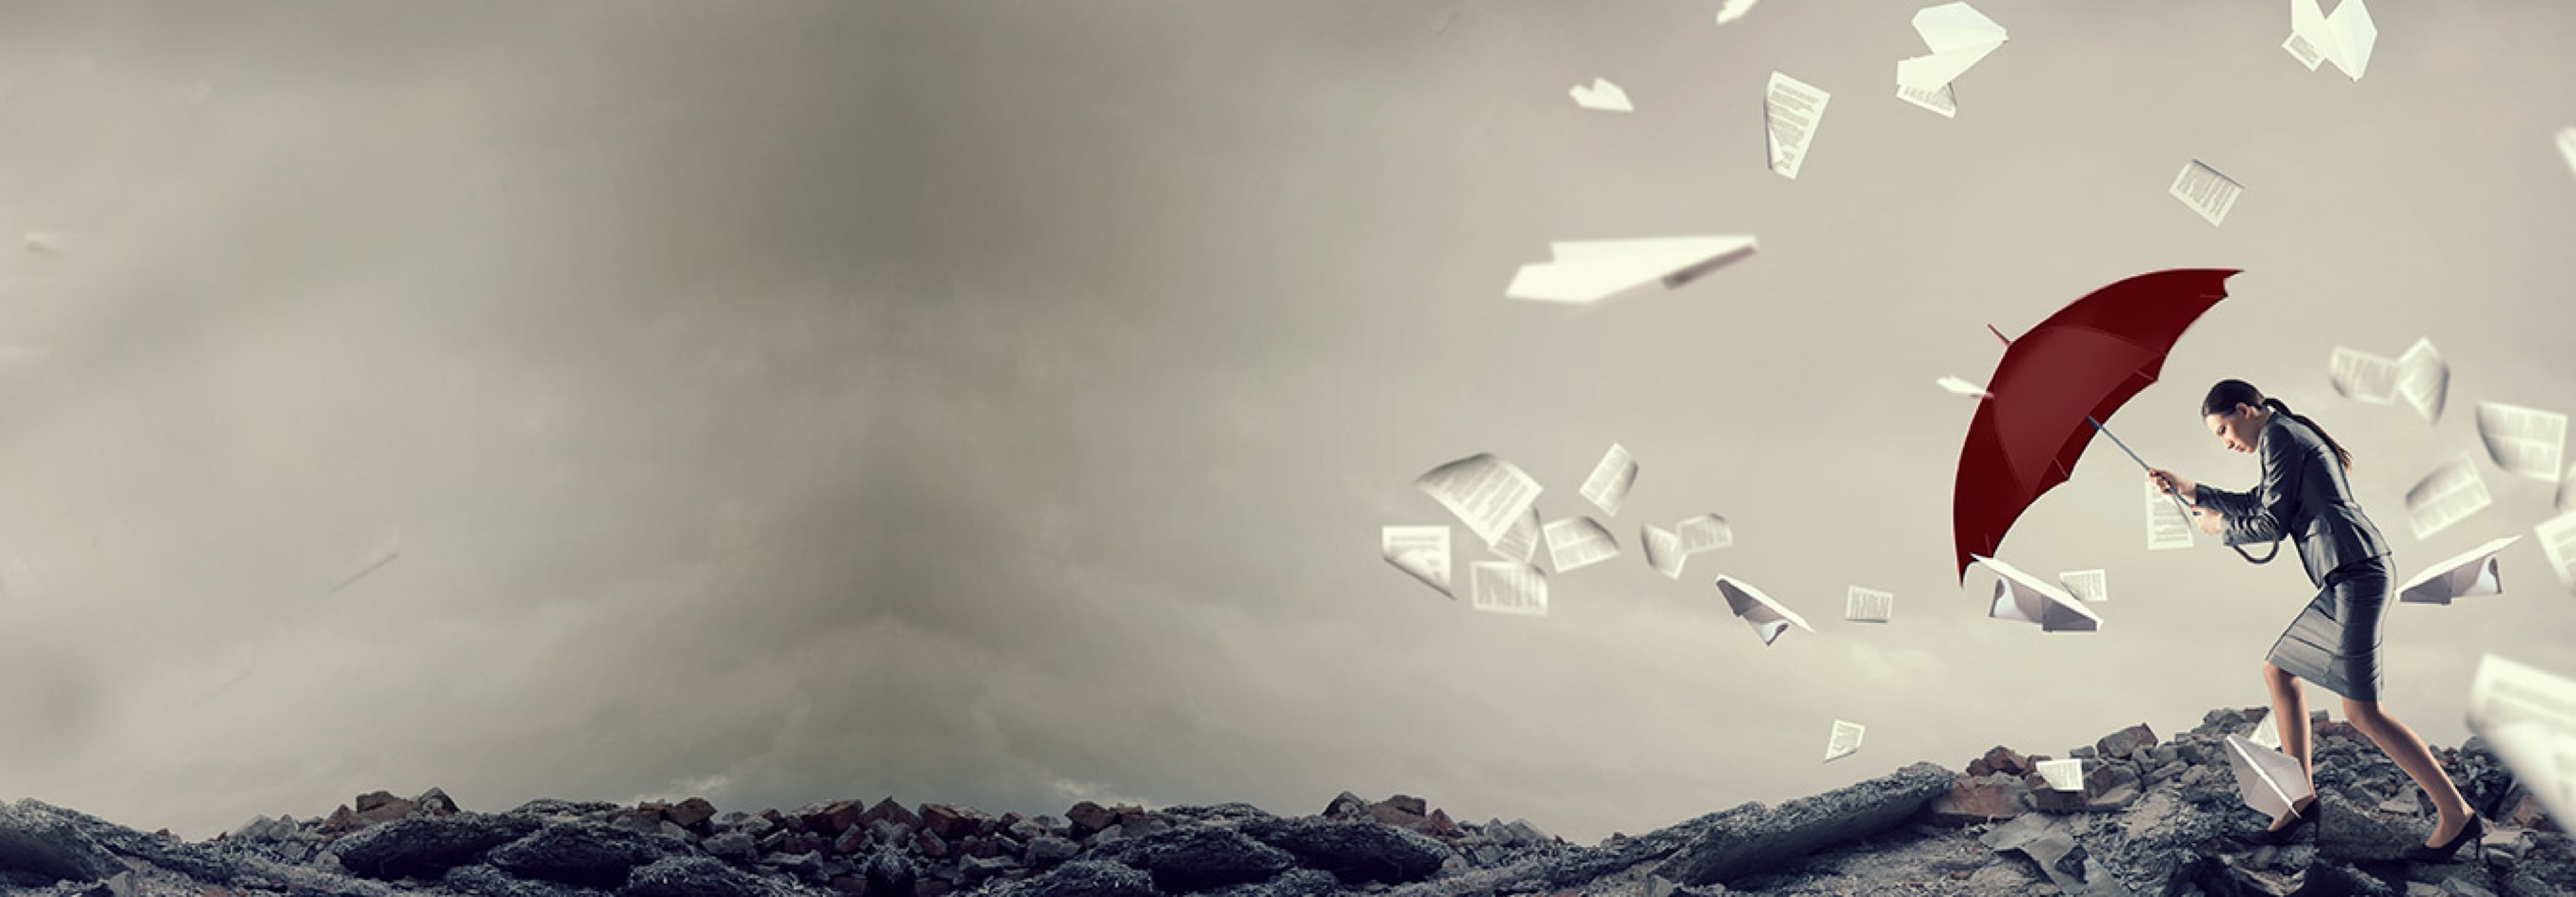
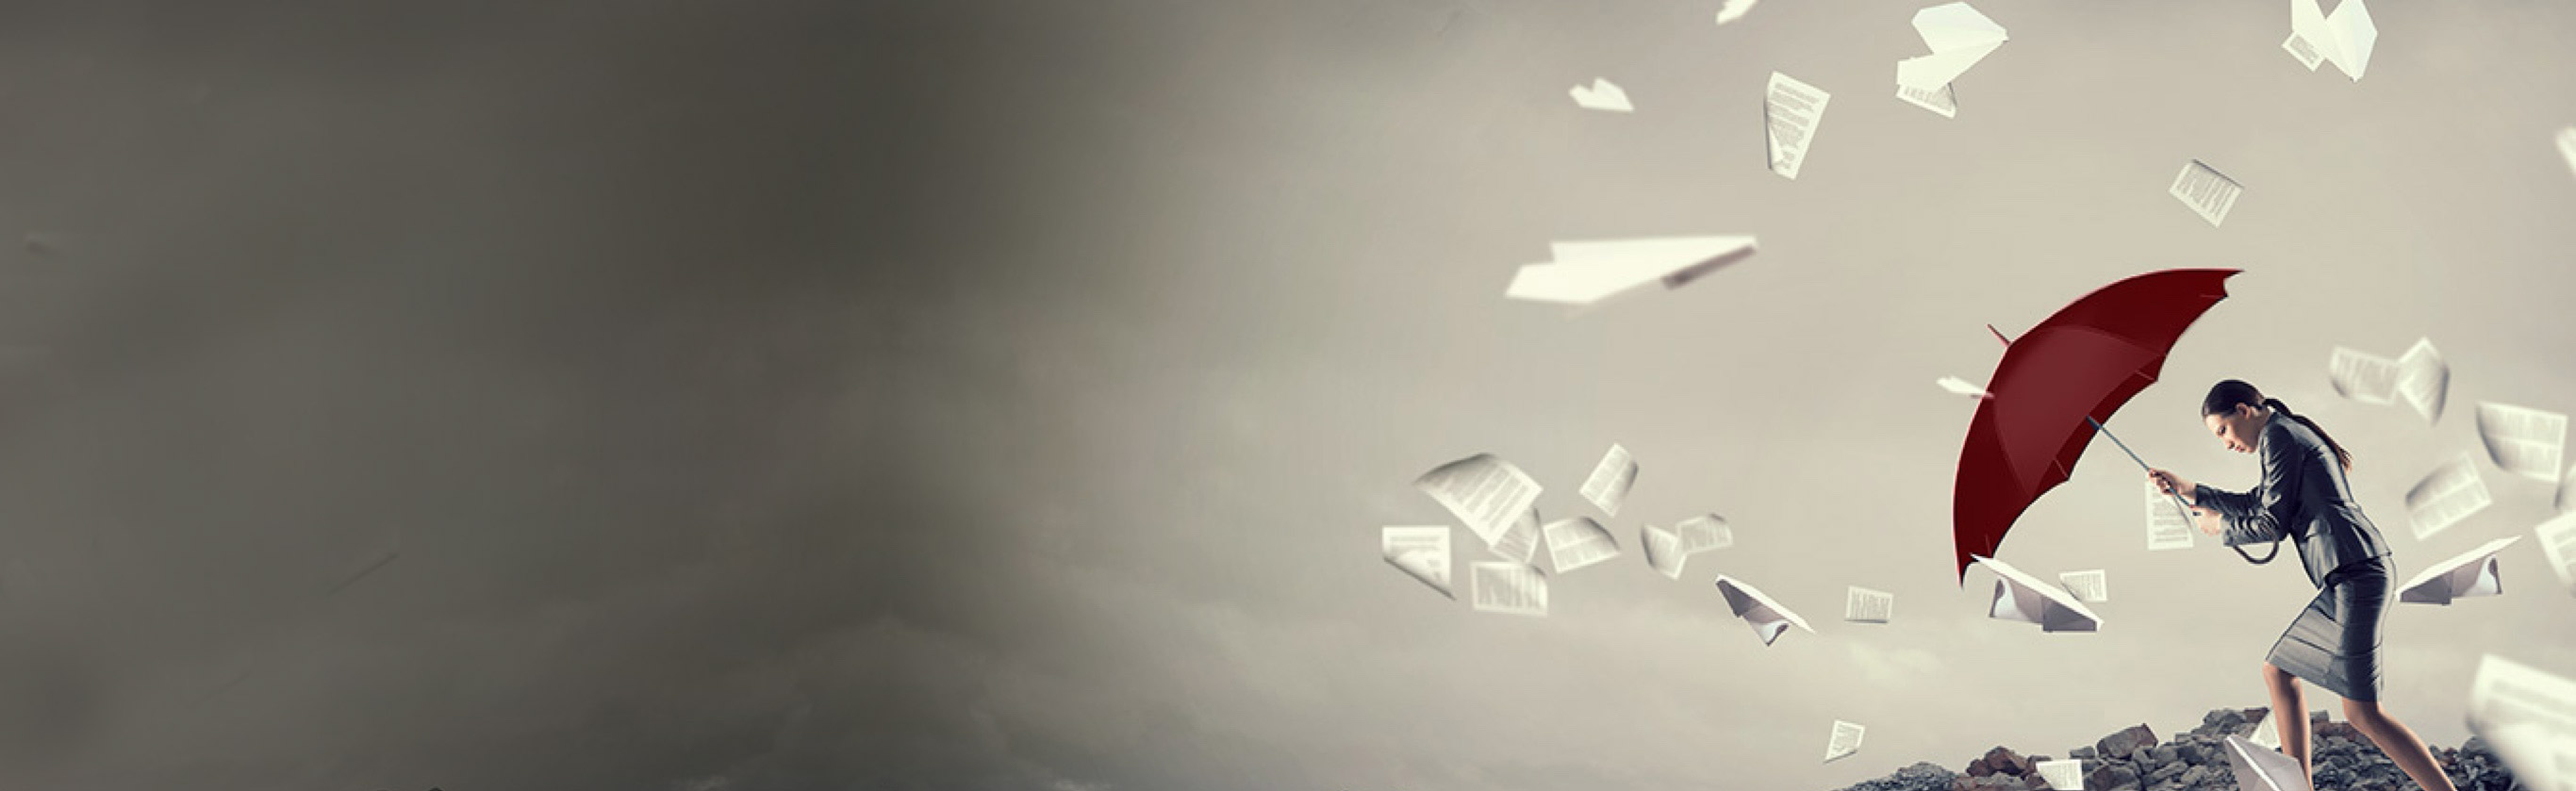
update

diff --git a/css/style.css b/css/style.css
@@ -857,7 +857,7 @@ li {
             padding: 10px; } }
         @media only screen and (min-width: 1170px) {
           .header .menu-principal .container ul li a {
-            font-size: 1.9rem; } }
+            font-size: 1.8rem; } }
         .header .menu-principal .container ul li a [class^="icon-"], .header .menu-principal .container ul li a [class*=" icon-"] {
           font-size: 2rem;
           padding-right: 10px; }
@@ -867,11 +867,15 @@ li {
   background-color: white;
   border-bottom: 1px solid lightgray; }
   .header .logos .logodde img {
-    height: 80px;
+    height: 64px;
     width: auto;
     display: block;
     float: left;
-    margin-top: 5px; }
+    margin-top: 11px; }
+    @media only screen and (min-width: 700px) {
+      .header .logos .logodde img {
+        height: 80px;
+        margin-top: 5px; } }
   .header .logos .logocongreso {
     max-width: 100px;
     height: 90px;
@@ -887,26 +891,49 @@ li {
   min-height: 50px;
   width: 100%; }
   .hero .image {
-    background-image: url(../img/background-dde312312.jpg);
-    min-height: 410px;
+    background-image: url(../img/bg-mobile.jpg);
+    min-height: 80px;
     background-size: cover;
-    background-position: bottom;
-    padding-top: 80px; }
+    background-position: right;
+    padding-top: 60px;
+    padding-bottom: 70px; }
+    @media only screen and (min-width: 700px) {
+      .hero .image {
+        background-image: url(../img/background-dde312312.jpg);
+        min-height: 410px;
+        background-size: cover;
+        background-position: bottom right;
+        padding-top: 100px;
+        padding-bottom: 0px; } }
     .hero .image .textohero h1 {
       color: white;
-      font-size: 4.2rem;
+      font-size: 3.2rem;
       font-family: 'Libel';
       font-weight: normal;
-      line-height: 4.4rem; }
+      line-height: 4.4rem;
+      text-transform: uppercase;
+      text-align: center; }
       @media only screen and (min-width: 700px) {
         .hero .image .textohero h1 {
           font-size: 5.2rem;
-          line-height: 5.5rem; } }
+          line-height: 6.2rem; } }
+    .hero .image .textohero hr {
+      background-color: #618848;
+      border: 2px solid #618848;
+      margin: 6px auto; }
+      @media only screen and (min-width: 700px) {
+        .hero .image .textohero hr {
+          margin: 15px auto; } }
     .hero .image .textohero h2 {
       color: #E3E3E3;
       font-family: 'Akrobat';
       font-weight: normal;
-      font-size: 4rem; }
+      font-size: 2rem;
+      text-align: center; }
+      @media only screen and (min-width: 700px) {
+        .hero .image .textohero h2 {
+          text-align: left;
+          font-size: 4rem; } }
   .hero .bar {
     height: 138px;
     width: 100%;

diff --git a/sass/_hero.scss b/sass/_hero.scss
@@ -4,25 +4,54 @@
 
     .image{
 
-        
-        background-image: url(../img/background-dde312312.jpg);
-        min-height: 410px;
+        background-image: url(../img/bg-mobile.jpg);
+        min-height: 80px;
         background-size: cover;
-        background-position: bottom;
-        padding-top: 80px;
+        background-position: right;
+        padding-top: 60px;
+        padding-bottom: 70px;
+
+        @media only screen and (min-width:700px){
+            background-image: url(../img/background-dde312312.jpg);
+            min-height: 410px;
+            background-size: cover;
+            background-position: bottom right;
+            padding-top: 100px;
+            padding-bottom: 0px;
+        }
+       
         .textohero{
-            h1{color:white; 
-                
-                font-size: 4.2rem; font-family: 'Libel'; font-weight: normal;
+            h1{color: white;
+                font-size: 3.2rem;
+                font-family: 'Libel';
+                font-weight: normal;
                 line-height: 4.4rem;
+                text-transform: uppercase;
+                text-align: center;
+            
                 @media only screen and (min-width:700px){
                     font-size: 5.2rem;
-                    line-height: 5.5rem;
+                    line-height: 6.2rem;
                 }
             
             }
-            hr{}
-            h2{color:#E3E3E3; font-family: 'Akrobat'; font-weight: normal; font-size: 4rem;}
+            hr{    background-color: #618848;
+                border: 2px solid #618848;
+                margin: 6px auto;
+
+                @media only screen and (min-width:700px){
+                    margin: 15px auto;
+
+
+                }
+            }
+            h2{color:#E3E3E3; font-family: 'Akrobat'; font-weight: normal; font-size: 2rem;
+                text-align: center;;
+            @media only screen and (min-width:700px){
+                text-align: left;
+                font-size: 4rem;
+            }
+            }
         }
     }
     .bar{

diff --git a/index.html b/index.html
@@ -17,6 +17,7 @@
     <header class="header">
         <div class="logos">
             <div class="container">
+            <div class="container">
                 <div class="row">
                 <div class="logodde col s4">
                     <img src="img/logo-dde0.png" alt="">
@@ -26,6 +27,8 @@
                 </div>
             </div>
             </div>
+        </div>
+
         </div>
         <div class="menu-principal">
                 <div class="menu">

diff --git a/sass/_logos.scss b/sass/_logos.scss
@@ -8,11 +8,15 @@
 .logodde{
 
     img{
-        height: 80px;
+        height: 64px;
         width: auto;
         display: block;
         float: left;
-        margin-top: 5px;
+        margin-top: 11px;
+        @media only screen and (min-width:700px){
+            height: 80px;
+            margin-top: 5px;
+        }
     }
 }
     .logocongreso{

diff --git a/sass/_menuprincipal.scss b/sass/_menuprincipal.scss
@@ -69,7 +69,7 @@
                 }
 
                 @media only screen and (min-width:1170px){
-                    font-size: 1.9rem;
+                    font-size: 1.8rem;
 
                 }
                 [class^="icon-"], [class*=" icon-"] {
